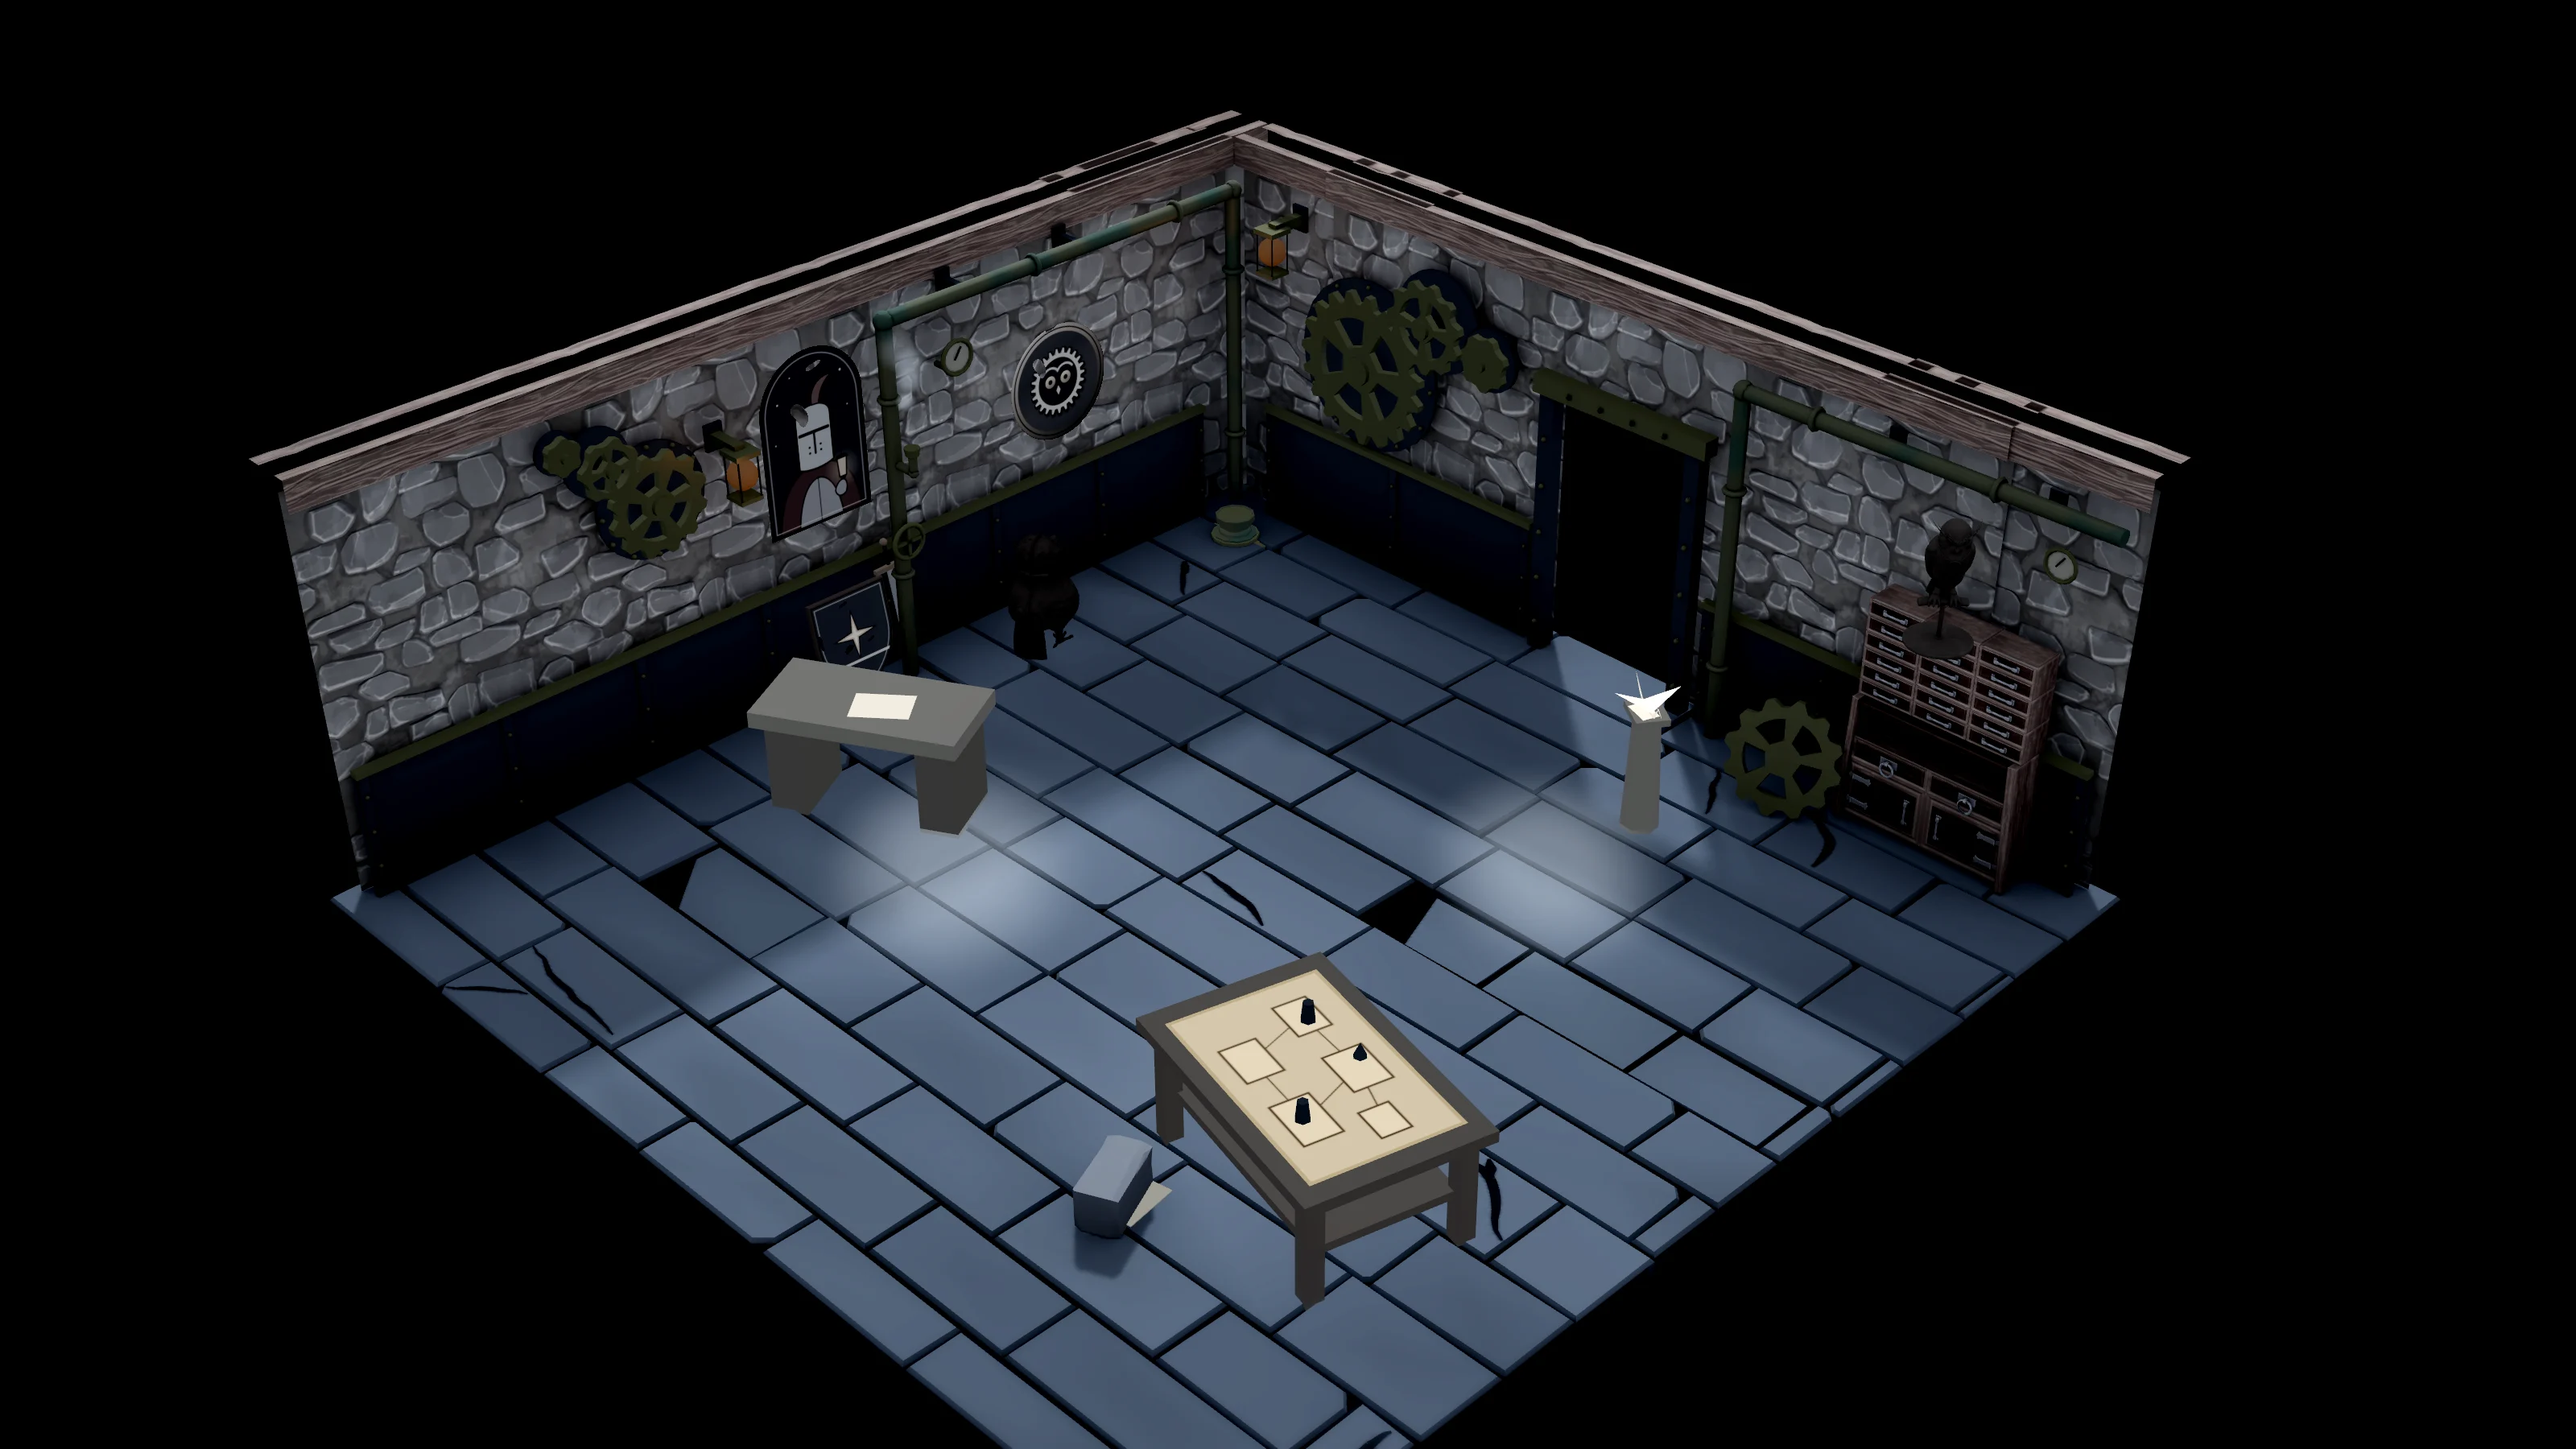
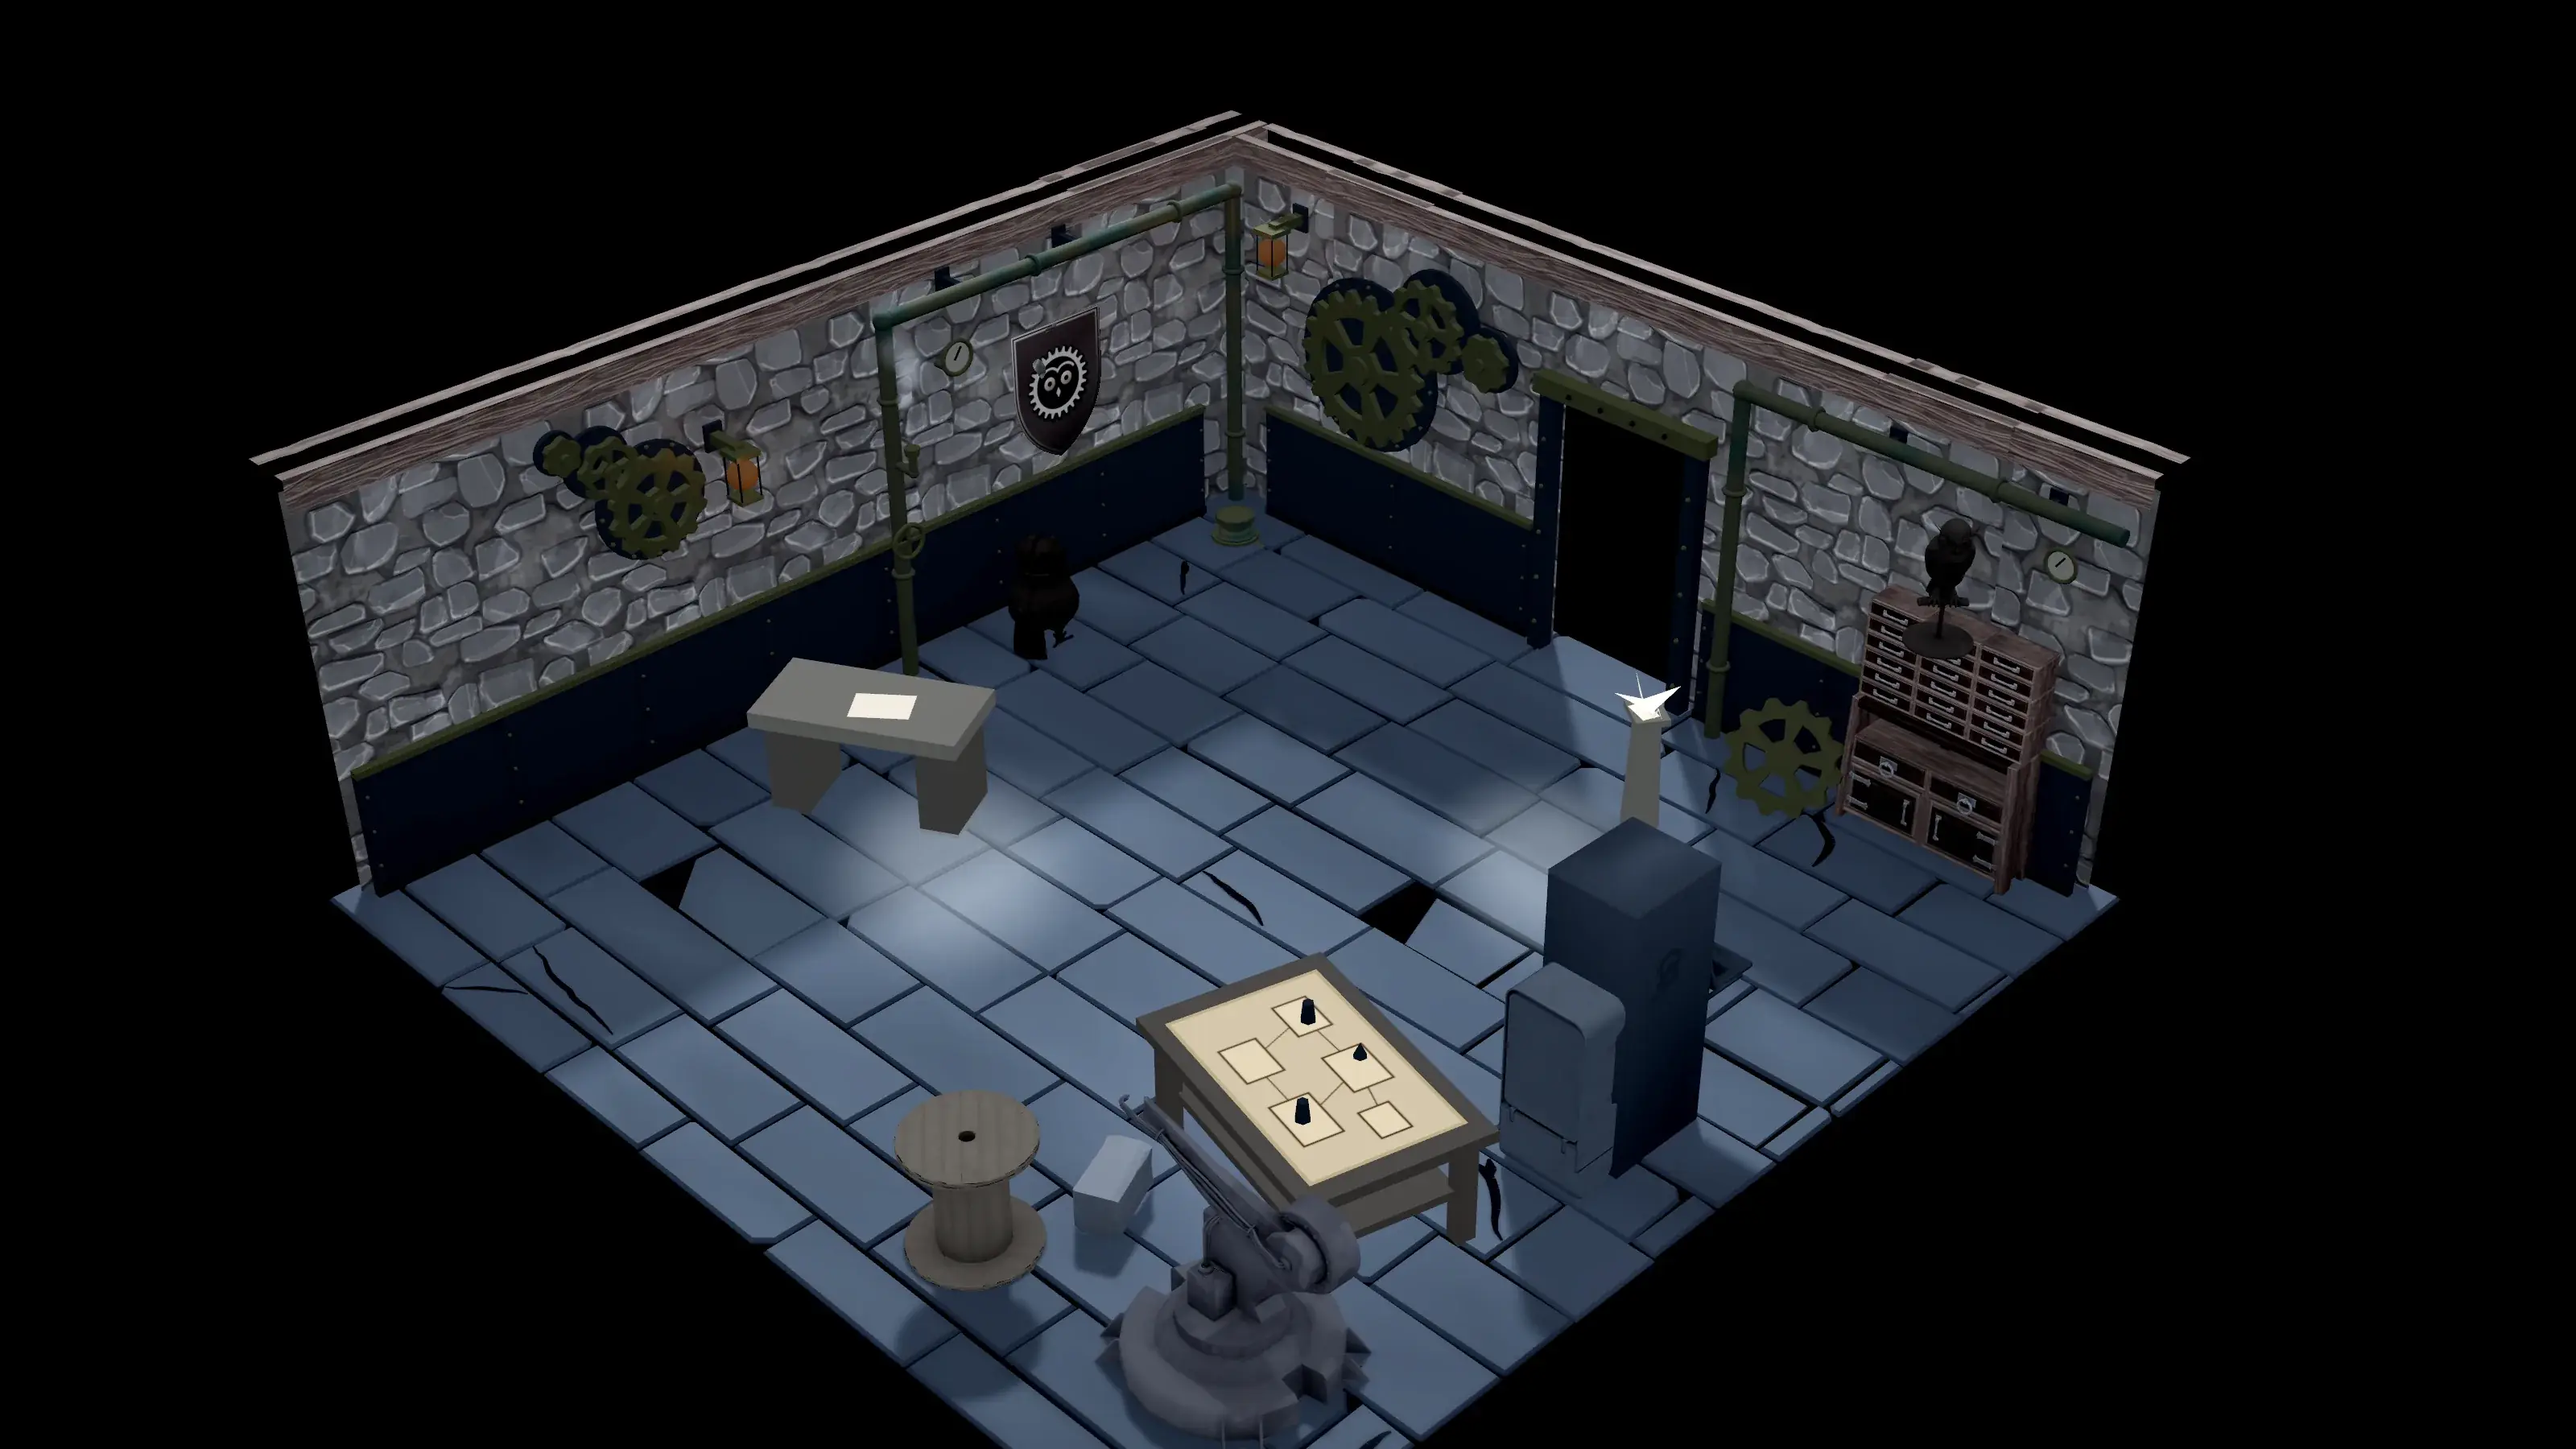
Show every room as a prerendered picture

diff --git a/apps/web/src/world/RoomCamera.tsx b/apps/web/src/world/RoomCamera.tsx
@@ -5,7 +5,7 @@ import { useMemo, useRef } from "react";
 import { type PerspectiveCamera as Camera, Vector3 } from "three";
 import { useSession } from "../engine/store";
 import { useReducedMotion } from "../progress/motion";
-import { captureMode, pictureMode } from "./prerender/RoomPicture";
+import { captureMode } from "./prerender/RoomPicture";
 
 // The fixed three-quarter view (0006, art-direction.md): a narrow lens, no orbit,
 // and a gentle parallax that follows the pointer. With reduced motion (UI-23) the camera holds still:
@@ -17,6 +17,8 @@ type Props = {
   fov?: number;
   /** Start this many metres further out and settle in (arriving in the room, ONB-05). */
   settleFrom?: number;
+  /** Lock the view only when this exact room has a picture; unsupported layouts keep live camera motion. */
+  picture?: boolean;
 };
 
 // From the room toward the camera. Fixed for every room (no orbit), so static geometry facing away
@@ -26,7 +28,7 @@ const PARALLAX = 0.5; // metres of camera drift at the screen edge
 const LIFT_DROP = 2.6; // metres the view moves down while the console is open
 const LIFT_OUT = 4; // …and how far it steps back
 
-export function RoomCamera({ target, distance = 24, fov = 28, settleFrom = 0 }: Props) {
+export function RoomCamera({ target, distance = 24, fov = 28, settleFrom = 0, picture = false }: Props) {
   const ref = useRef<Camera>(null);
   const lookAt = useMemo(() => new Vector3(...target), [target]);
   const home = useMemo(() => lookAt.clone().addScaledVector(VIEW_DIRECTION, distance), [lookAt, distance]);
@@ -40,7 +42,7 @@ export function RoomCamera({ target, distance = 24, fov = 28, settleFrom = 0 }: 
     const camera = ref.current;
     if (!camera) return;
     // Picture rooms (prototype): the camera never moves, so the live things stay on the picture.
-    if (captureMode || pictureMode) {
+    if (captureMode || picture) {
       camera.position.copy(home);
       camera.lookAt(lookAt);
       return;

diff --git a/apps/web/src/world/room/MachineScene.tsx b/apps/web/src/world/room/MachineScene.tsx
@@ -118,13 +118,15 @@ export function MachineScene({ device, layout: given, barred, glows, arriving = 
   // Restoration spreads from the doorway (the door and its corridor are what rooms fix first).
   const origin: Vec3 = first ? [doorGeometry(first).doorway[0], 1, doorGeometry(first).doorway[2]] : [0, 1, 0];
 
-  const pictureId = `r${region}-${device === "observatory" ? "observatory" : layout.doorSlots.length > 2 ? "hall" : "house"}-d${doors.length}`;
+  const hall = device !== "observatory" && layout.doorSlots.length > 2;
+  const frontDoors = layout.doorSlots.slice(0, doors.length).filter((slot) => slot?.wall === "front").length;
+  const pictureId = `r${region}-${device === "observatory" ? "observatory" : hall ? "hall" : "house"}-d${doors.length}${hall ? `-f${frontDoors}` : ""}`;
   const picture = pictureMode && hasPicture(pictureId);
   const baked = useMemo(() => lampsBaked(layout.placements, layout.extras, layout.kitPieces, region), [layout, region]);
 
   return (
     <>
-      <RoomCamera target={[0, 1.1, -0.6]} distance={19} settleFrom={arriving ? 9 : 0} />
+      <RoomCamera target={[0, 1.1, -0.6]} distance={19} settleFrom={arriving ? 9 : 0} picture={picture} />
       <color attach="background" args={[look.background]} />
       <RuinDial level={ruinLevel} origin={origin} />
       <RoomLights glows={layout.glows ?? glows} region={region} baked={baked || picture} />
@@ -214,7 +216,7 @@ export function MachineScene({ device, layout: given, barred, glows, arriving = 
         doors={doors.length}
         hall={layout.doorSlots.length > 2}
       />
-      {!picture && children}
+      {children}
       {/* The finishing pass: bloom, tone mapping, the region's grade, vignette (world/post). */}
       {!picture && <RoomPost />}
     </>

diff --git a/apps/web/src/world/prerender/RoomPicture.tsx b/apps/web/src/world/prerender/RoomPicture.tsx
@@ -13,11 +13,32 @@ import { ruinAt } from "../ruin";
 const params = typeof location === "undefined" ? new URLSearchParams() : new URLSearchParams(location.search);
 /** `?capture=1`: the room alone, for tools/shots/capture-rooms.mjs. */
 export const captureMode = params.has("capture");
-/** `?pre=1`: rooms that have pictures are drawn from them. */
-export const pictureMode = params.has("pre");
+/** Picture rooms are the default; `?pre=0` returns to the live room everywhere. */
+export const pictureMode = !captureMode && params.get("pre") !== "0";
 
-/** The rooms captured so far. */
-const PICTURES = new Set(["r1-observatory-d1", "r1-house-d1", "r2-observatory-d1"]);
+/** Every captured room layout. Hall ids include the near-edge door count to keep doors on their picture. */
+const PICTURES = new Set([
+  "r1-observatory-d1",
+  "r1-observatory-d2",
+  "r1-house-d1",
+  "r2-observatory-d1",
+  "r2-house-d1",
+  "r2-hall-d4-f1",
+  "r2-hall-d4-f2",
+  "r2-hall-d5-f1",
+  "r2-hall-d5-f2",
+  "r3-observatory-d1",
+  "r3-house-d1",
+  "r3-hall-d3-f1",
+  "r3-hall-d4-f1",
+  "r3-hall-d5-f1",
+  "r3-hall-d6-f1",
+  "r3-hall-d7-f1",
+  "r4-observatory-d1",
+  "r4-house-d1",
+  "r4-hall-d2-f1",
+  "r4-hall-d3-f1",
+]);
 export const hasPicture = (id: string) => PICTURES.has(id);
 
 const SCREEN = new PlaneGeometry(2, 2);
